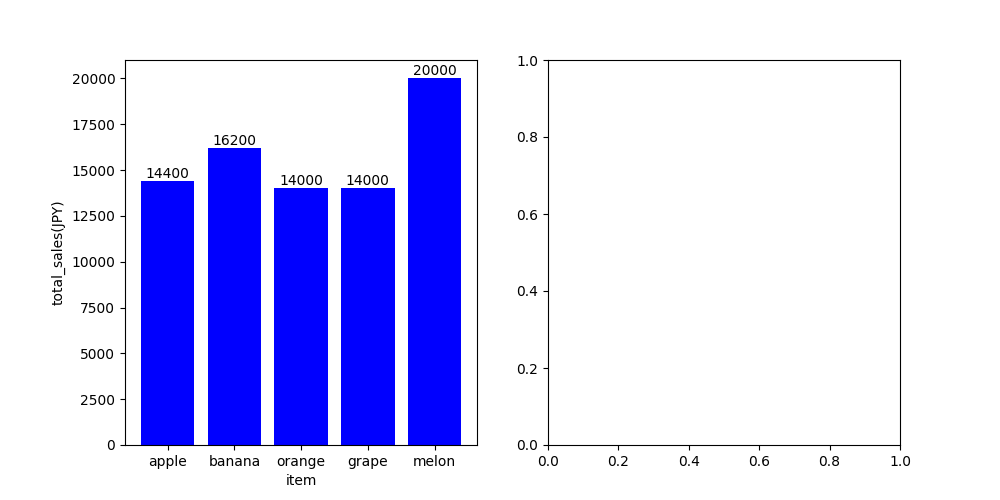
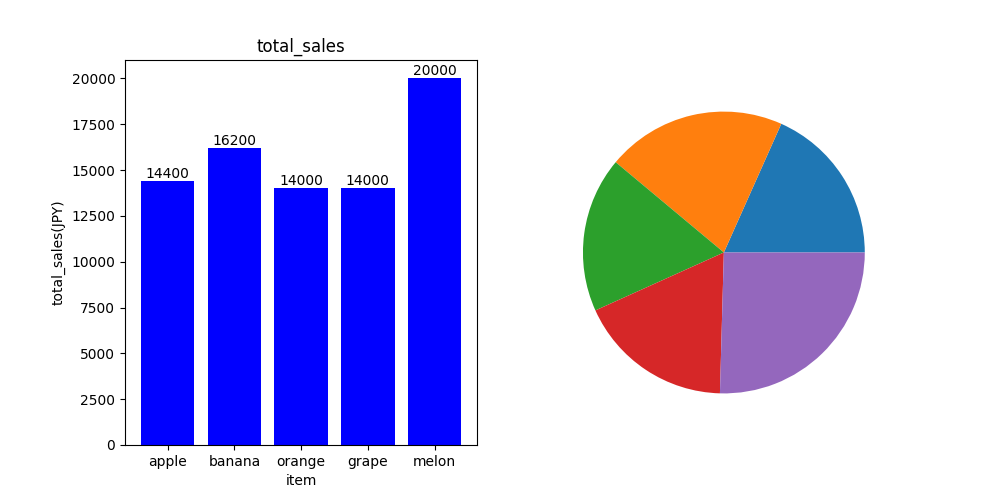
数値の安全化、コメントテキストファイルの出力、フォルダの作成完了、次回売り上げ順にソートし、円グラフ作成とtotal_sales=0の場合のガード

diff --git a/basic_pandas_matplotlib/day11_2.py b/basic_pandas_matplotlib/day11_2.py
@@ -1,3 +1,4 @@
+
 from pathlib import Path
 import datetime as dt
 import pandas as pd
@@ -33,12 +34,16 @@ for csv_path in csv_files:
         print(f"WARNING カラム不足: {csv_path.name} 必要： {required_cols} 実際: {set(df.columns)}")
         continue
     
+    # 数値数値の安全化
+    df["price"] = pd.to_numeric(df["price"], errors="coerce").fillna(0)
+    df["count"] = pd.to_numeric(df["count"], errors="coerce").fillna(0).astype(int)
+    
     # ここまで修正済
         
         
     df["total"]           	= df["price"] * df["count"]
-    total_sales			    = round(df["total"].sum())
-    average_price   		= round(df["price"].mean())
+    total_sales			    = int(round(df["total"].sum()))
+    average_price   		= int(round(df["price"].mean()) if len(df) else 0)
     top_sales_item_name		= df["item"][df["total"].idxmax()]
     top_sales_item_total    = df["total"].max()
     top_share_item_rate     = round(top_sales_item_total / total_sales * 100, 1)
@@ -61,6 +66,7 @@ for csv_path in csv_files:
         f"最も売れた商品は「{top_sales_item_name}」で、全体の {top_share_item_rate}% を占めています。\n"
         f"全体的に、上位商品の売上が構成比の大部分を占める傾向があります"
         )
+    # グラフの作成
     
     # 棒グラフの作成
     bars = axes[0].bar(
@@ -70,6 +76,7 @@ for csv_path in csv_files:
     )
     axes[0].set_xlabel("item")
     axes[0].set_ylabel("total_sales(JPY)")
+    axes[0].set_title(f"{data_label}total_sales")
     for bar in bars:
         x = bar.get_x() + bar.get_width()/2
         y = bar.get_height()
@@ -81,6 +88,15 @@ for csv_path in csv_files:
             va="bottom"
             
         )
-    plt.savefig(out_dir)
+    
+    # 円グラフ作成
+    axes[1].pie(
+        df["total"]
+    )
+    
+    out_dir.mkdir(parents=True, exist_ok=True)
+    plt.savefig(out_dir / f"report_{data_label}.png")
     plt.close(fig)
+    with open(f"{out_dir}/comment_{data_label}.txt", mode="w") as f:
+        f.write(ai_comment)
     print(ai_comment)
